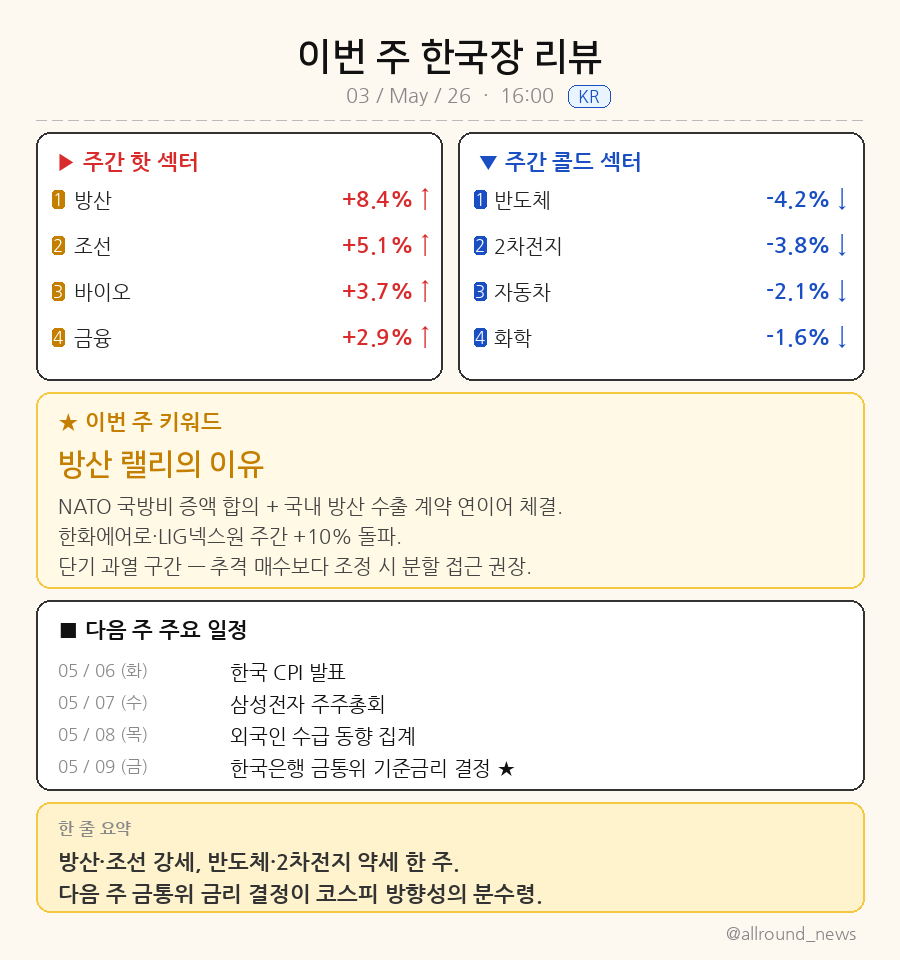
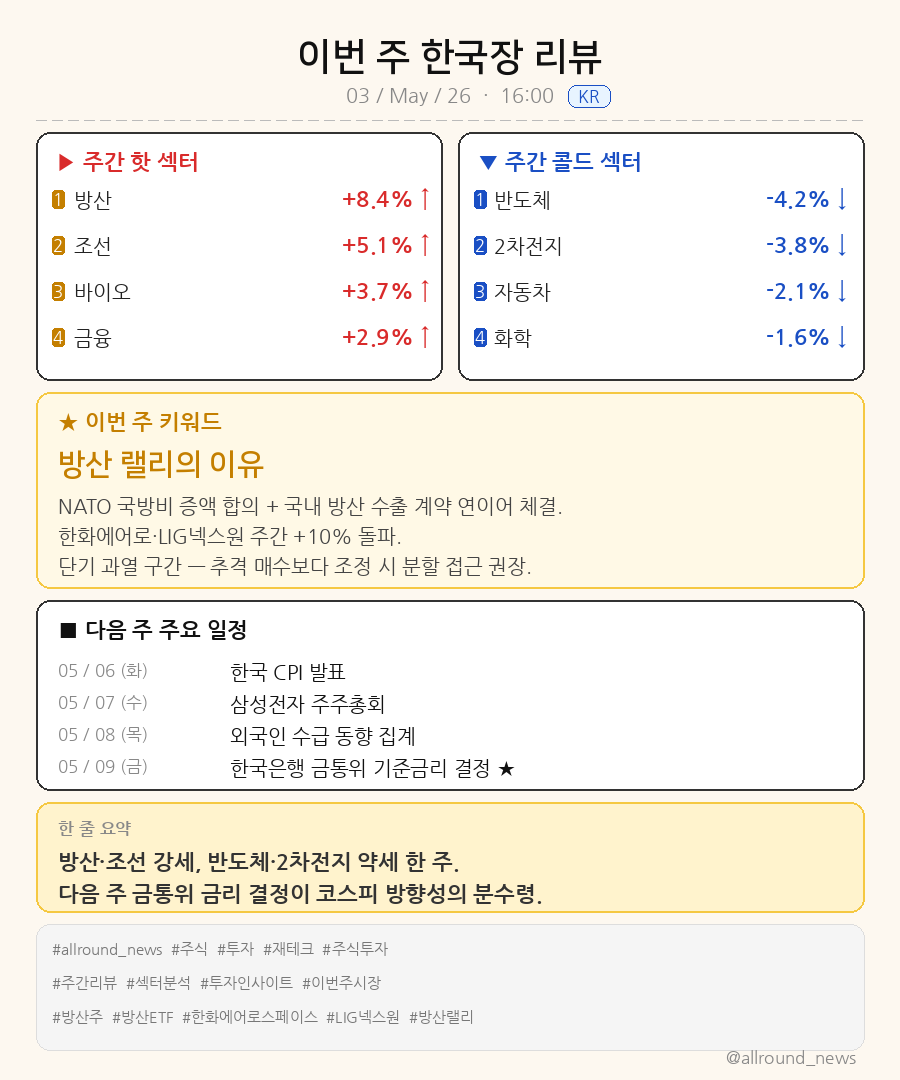
feat: 인사이트 카드에 해시태그 섹션 추가
고정 태그 / 카드 타입 태그 / 주간 키워드 태그 3줄 구성

https://claude.ai/code/session_015qx5EAiJphUn9mR9kiK7yF

diff --git a/generate_insight_card.py b/generate_insight_card.py
@@ -21,7 +21,7 @@ GOLD     = "#c47f00"
 GRAY     = "#888888"
 YELLOW   = "#f5c842"
 
-W, H = 900, 960
+W, H = 900, 1080
 
 img  = Image.new("RGB", (W, H), BG)
 draw = ImageDraw.Draw(img, "RGBA")
@@ -135,8 +135,26 @@ summary = "방산·조선 강세, 반도체·2차전지 약세 한 주.\n다음 
 for i, line in enumerate(summary.split("\n")):
     text(line, 58, 848 + i * 32, f_mid, color="#333")
 
+# ── 해시태그 ─────────────────────────────────────────────
+HASH_BG   = "#f5f5f5"
+HASH_TEXT = "#777777"
+f_hash    = font(FONT_REGULAR, 15)
+
+rect([36, 924, W-36, 1050], fill=HASH_BG, outline="#dddddd", width=1)
+
+hashtags = [
+    # 고정
+    ["#allround_news", "#주식", "#투자", "#재테크", "#주식투자"],
+    # 카드 타입
+    ["#주간리뷰", "#섹터분석", "#투자인사이트", "#이번주시장"],
+    # 이번 주 키워드
+    ["#방산주", "#방산ETF", "#한화에어로스페이스", "#LIG넥스원", "#방산랠리"],
+]
+for i, tags in enumerate(hashtags):
+    text("  ".join(tags), 52, 940 + i * 34, f_hash, color=HASH_TEXT)
+
 # ── 핸들 ─────────────────────────────────────────────────
-text("@allround_news", W-44, H-18, f_small, color=GRAY, anchor="rb")
+text("@allround_news", W-44, H-14, f_small, color=GRAY, anchor="rb")
 
 img.save("/home/user/news-card-images/insight_card_mockup.png")
 print("저장 완료: insight_card_mockup.png")
